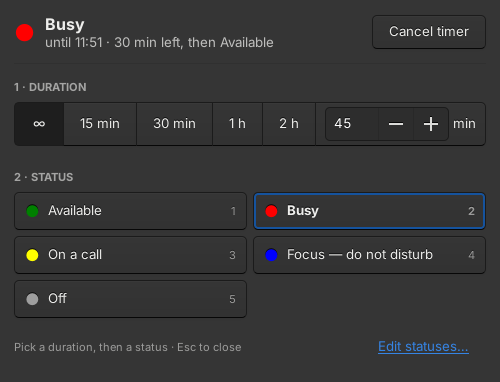
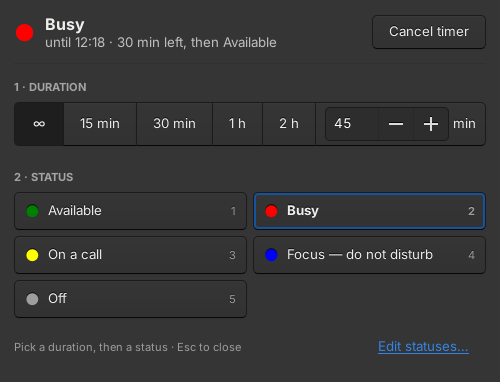
Tray menu: one-click timers; fix panel closing while moved
Tray menu, in sections: running timer + Cancel timer, statuses,
timer shortcuts + "Other duration…" (opens the panel), Off on its own
(it isn't a status), Edit statuses…, Quit (was "Quit tray icon").
Common timers now take two clicks instead of four.

- timer-shortcuts setting in statuses.conf ("busy 30, busy 1h, focus
  1h30"); default: the first non-default status for 30 min and 1 h;
  invalid entries are skipped and reported by --settings
- middle-click on the icon still opens the panel

Fixes
- the panel closed itself when moved: the window manager takes the
  focus during the drag, which triggered "close when focus is lost".
  It now closes after an action, with Esc or its close button
- the tray left a zombie process behind for each panel or command it
  started; it now reaps them
- rebuilding the tray menu (when a timer starts or stops) left the
  middle-click target pointing to a destroyed menu item, a GTK critical
  that can confuse the exported menu

Tests: 4 new (timer shortcuts), tray tests now click through the real
menu; README screenshots updated, with the tray menu.

Claude-Session: https://claude.ai/code/session_01HiipHthEjkDPDLwqHjDQ32

Changed region(s): [[0.15, 0.0864, 0.57, 0.144]]

diff --git a/tests/ui.py b/tests/ui.py
@@ -28,6 +28,7 @@ with open(f"{TMP}/config/luxafor-status/statuses.conf", "w") as f:
         "call      | yellow  | On a call\n"
         "focus     | #0000ff | Focus — do not disturb\n"
         "default-status = available\n"
+        "timer-shortcuts = focus 1h30, busy 30, nope 10\n"
     )
 os.environ.update(
     HOME=f"{TMP}/home",
@@ -151,18 +152,12 @@ w.cancel_button.clicked()
 eq("cancel timer", calls, [["--cancel-timer"]])
 
 w, calls = new_panel()
-w.on_focus_out()
+w.emit("focus-out-event", Gdk.Event.new(Gdk.EventType.FOCUS_CHANGE))
 pump(0.4)
-eq("focus lost before ever having it → stays open", w.get_visible(), True)
-w.on_focus_in()
-w.is_active = lambda: True   # focus moved to one of its own widgets
-w.on_focus_out()
-pump(0.4)
-eq("focus moving inside the panel → stays open", w.get_visible(), True)
-w.is_active = lambda: False  # click on another window
-w.on_focus_out()
-pump(0.4)
-eq("click elsewhere → closes", w.get_visible(), False)
+eq("losing focus (e.g. while moving it) keeps it open", w.get_visible(), True)
+key(w, Gdk.KEY_Escape)
+pump(0.2)
+eq("Esc closes it", w.get_visible(), False)
 
 toggle("--cancel-timer")
 w, calls = new_panel()
@@ -203,19 +198,46 @@ try:
     tray = tray_ns["Tray"]()
     pump(1.5)
 
-    def labels():
-        return [i.get_label() for i in tray.ind.get_menu().get_children()
-                if not isinstance(i, Gtk.SeparatorMenuItem)]
+    def items():
+        return [i for i in tray.ind.get_menu().get_children()]
 
-    eq("menu: panel first, then statuses",
-       labels(), ["Open panel…", "Available", "Busy", "On a call", "Focus — do not disturb", "Off",
-                  "Edit statuses…", "Quit tray icon"])
-    eq("middle-click opens the panel", tray.ind.get_secondary_activate_target().get_label(), "Open panel…")
-    toggle("busy", "--for", "45")
-    pump(1.5)
+    def labels():
+        return [i.get_label() for i in items() if not isinstance(i, Gtk.SeparatorMenuItem)]
+
+    def sections():
+        out, cur = [], []
+        for i in items():
+            if isinstance(i, Gtk.SeparatorMenuItem):
+                out.append(cur)
+                cur = []
+            else:
+                cur.append(i.get_label())
+        return out + [cur]
+
+    eq("menu sections: statuses / timers / off / settings", sections(), [
+        ["Available", "Busy", "On a call", "Focus — do not disturb"],
+        ["Focus — do not disturb for 1 h 30", "Busy for 30 min", "Other duration…"],
+        ["Off"],
+        ["Edit statuses…", "Quit"],
+    ])
+    eq("middle-click opens the panel", tray.ind.get_secondary_activate_target().get_label(), "Other duration…")
+
+    def click(label):
+        item = next(i for i in items() if i.get_label() == label)
+        item.activate()
+        pump(1.0)
+
+    click("Busy for 30 min")
+    eq("timer shortcut → status set", toggle("--current"), "busy")
+    eq("timer shortcut → 30 min timer", "30 min left" in toggle("--timer"), True)
     tray.tick()
+    pump(0.3)
     eq("timer shown at the top", labels()[:2], [labels()[0], "Cancel timer"])
-    eq("timer line", labels()[0].startswith("⏱ Busy until") and "45 min left" in labels()[0], True)
+    eq("timer line", labels()[0].startswith("⏱ Busy until") and "30 min left" in labels()[0], True)
+    click("Cancel timer")
+    eq("cancel timer from the menu", toggle("--timer"), "No timer.")
+    click("Off")
+    eq("off from the menu", toggle("--current"), "off")
     toggle("--cancel-timer")
 except Exception as e:  # AppIndicator needs a D-Bus session
     FAIL += 1

diff --git a/README.md b/README.md
@@ -85,16 +85,23 @@ Options:
 
 ## Usage
 
-- **Dock**: open the app menu, search for "Luxafor" and drag it to your dock or panel.
-- **Panel**: "Luxafor Panel" in the app menu (pin it to your dock), or **Open
-  panel…** in the tray menu, or a middle-click on the tray dot. Pick a duration
-  (∞ = no timer), then click a status. Keys `1`–`9` pick a status, `Esc` closes.
+- **System tray**: the dot shows the current color. Right-click it:
+
+  <img src="docs/menu.png" alt="Tray menu: running timer and Cancel timer, then the statuses, the timer shortcuts, Other duration…, Off, Edit statuses…, Quit" width="256">
+
+  - a status in one click;
+  - a timer in one click (`timer-shortcuts`, see [Settings](#settings));
+  - **Other duration…** opens the panel (a middle-click on the dot too);
+  - while a timer runs, the time left shows next to the dot and at the top of
+    the menu, with **Cancel timer**.
+- **Panel**, for any duration: "Luxafor Panel" in the app menu, or **Other
+  duration…** in the tray menu. Pick a duration (∞ = no timer), then click a
+  status. Keys `1`–`9` pick a status, `Esc` closes.
 
   <img src="docs/panel.png" alt="The Luxafor panel, light: current status and timer, one button per status, durations" width="400"> <img src="docs/panel-dark.png" alt="The same panel in dark mode" width="400">
 
-- **System tray**: the dot shows the current color. Its menu sets a status in
-  one click and opens the panel. While a timer runs, the time left shows next
-  to the dot and at the top of the menu, with **Cancel timer**.
+- **Dock**: "Luxafor" in the app menu — one click goes to the next status.
+  Drag it (or "Luxafor Panel") to your dock.
 - **Terminal**:
 
   ```bash
@@ -163,6 +170,10 @@ default-status = available
 
 # Status used automatically while you are in a call (default: call)
 call-status = call
+
+# Timers offered in one click in the tray menu: "<status> <duration>",
+# separated by commas (default: your first non-default status, 30 min and 1 h)
+timer-shortcuts = busy 30, busy 1h, focus 1h30
 
 # Look of the panel: auto (default), light or dark
 theme = auto

diff --git a/CONTRIBUTING.md b/CONTRIBUTING.md
@@ -87,7 +87,7 @@ Runtime files:
 
 - `~/.config/luxafor-status/statuses.conf` — the user's statuses
   (`id | color | label`) and settings (`key = value`: `default-status`,
-  `call-status`, `theme`). `luxafor-toggle` and `luxafor-tray` both parse the statuses
+  `call-status`, `timer-shortcuts`, `theme`). `luxafor-toggle` and `luxafor-tray` both parse the statuses
   and must stay in sync if the format changes; other tools read settings with
   `luxafor-toggle --setting <key>`.
 - `~/.config/luxafor-status/callwatch.conf` — optional call detection
